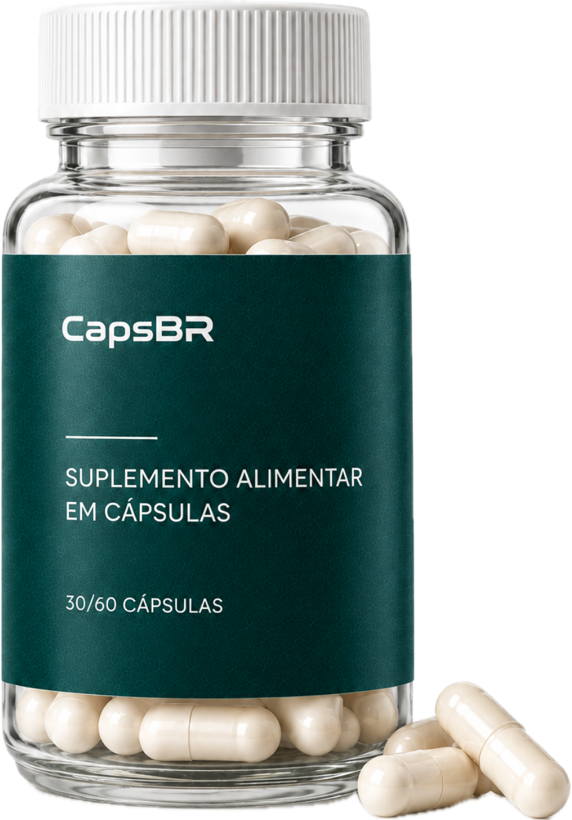
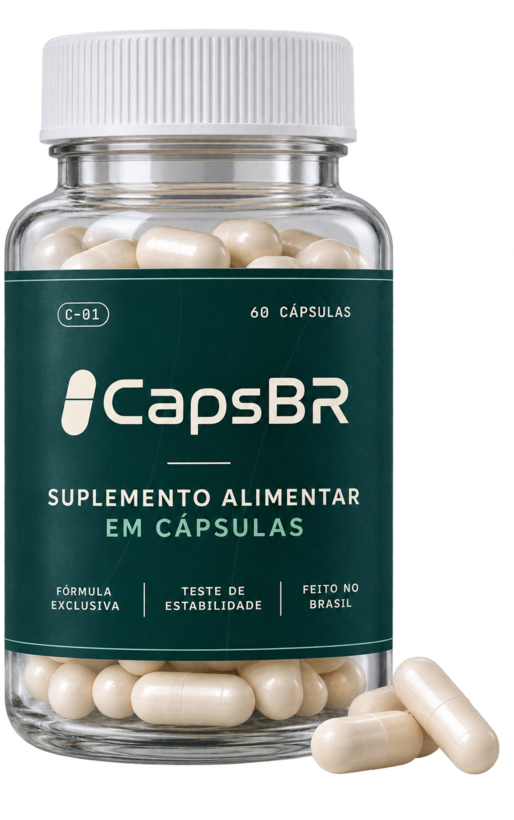
Standardize mockups, remove em-dashes, fix remaining factory claims
- Regenerate capsulas/liquidos-recorte.png from the same approved
  signature photos used for the catalog card mockups; they were
  older designer assets with a different (outdated) label design.
  Goma/solúvel already matched.
- Remove em-dashes from real site copy: the FAQ answer about
  outsourcing, and the "—" placeholder for unestablished %VD in the
  nutrition table (now empty string, same isNaN() fallback behavior).
- A page-by-page mobile wrap review turned up 4 more spots still
  claiming an in-house factory, missed by earlier fixes since they
  live in catalog.js's templates rather than the pages already
  edited: the hero and catalog-cover tag chips ("Fábrica de marca
  própria"), both pages' footer tagline, and two catalog.js lines
  ("a gente fabrica", "direto com a fábrica", "Fale com a fábrica").

Claude-Session: https://claude.ai/code/session_01LBGgy8mu6UH6r6U7q1ZMpe

diff --git a/assets/js/catalog.js b/assets/js/catalog.js
@@ -89,9 +89,9 @@
       <div class="dk-grid"></div><div class="dk-glow"></div>
       <div class="cover__top"><span class="dk-logo" role="img" aria-label="CapsBR"></span><div class="cover__ed">Catálogo ${today.getFullYear()}<br>Edição ${esc(edition)}</div></div>
       <div class="cover__body">
-        <div class="cover__tags"><span class="tag"><span class="dot"></span>Fábrica de marca própria</span>${PROMO.on && state.precos ? `<span class="tag cover__promo">${esc(PROMO.name)} · até ${PROMO.max}% off até ${PROMO.endDMY.slice(0, 5)}</span>` : ''}</div>
+        <div class="cover__tags"><span class="tag"><span class="dot"></span>Marca própria de suplementos</span>${PROMO.on && state.precos ? `<span class="tag cover__promo">${esc(PROMO.name)} · até ${PROMO.max}% off até ${PROMO.endDMY.slice(0, 5)}</span>` : ''}</div>
         <h1 class="display">${title}</h1>
-        <p class="lead">Fórmulas prontas, validadas e com teste de estabilidade. Você escolhe, a gente fabrica com o rótulo da sua marca e entrega pronto pra vender.</p>
+        <p class="lead">Fórmulas prontas, validadas e com teste de estabilidade. Você escolhe, a gente cuida da produção com o rótulo da sua marca e entrega pronto pra vender.</p>
         ${state.para ? `<div class="cover__for"><span>Preparado para</span><b>${esc(state.para)}</b></div>` : ''}
       </div>
       <div class="cover__art${showCaps && showLiq ? '' : ' is-solo'}" aria-hidden="true">
@@ -115,7 +115,7 @@
         <div class="eyebrow"><span class="num">01</span><span class="line"></span><span class="mono">Sobre a CapsBR</span></div>
         <h2 class="display h2">Sua linha de suplementos, <span class="accent">sem montar uma fábrica.</span></h2>
       </div>
-      <p class="lead">A CapsBR Nutracêuticos fabrica cápsulas e líquidos com a marca de quem quer empreender no mercado de suplementos. Do pó da fórmula ao lote aprovado, cada etapa acontece na nossa linha, com controle de qualidade em todo frasco.</p>
+      <p class="lead">A CapsBR Nutracêuticos coloca no mercado cápsulas e líquidos com a marca de quem quer empreender no mundo dos suplementos. Do pó da fórmula ao lote aprovado, cuidamos de cada etapa da produção, com controle de qualidade em todo frasco.</p>
     </div>
     <div class="sec-label"><span class="mono">Incluso em todo pedido</span></div>
     <div class="inc">
@@ -170,7 +170,7 @@
         <div class="dv__txt">
           <span class="dv__num">${pad(n)}</span>
           <h2 class="display">${g.label}</h2>
-          <p class="lead">${liq ? 'Frasco com conta-gotas de 30 mL, cheio e lacrado na nossa linha. Absorção rápida e dose fácil de ajustar.' : 'Pote de vidro com 30 ou 60 cápsulas, dosadas, encapsuladas e envasadas com controle em cada etapa.'}</p>
+          <p class="lead">${liq ? 'Frasco com conta-gotas de 30 mL, cheio e lacrado com controle em cada etapa. Absorção rápida e dose fácil de ajustar.' : 'Pote de vidro com 30 ou 60 cápsulas, dosadas, encapsuladas e envasadas com controle em cada etapa.'}</p>
           <div class="dv__tags"><span class="tag"><span class="dot"></span>${liq ? 'Conta-gotas 30 mL' : 'Pote de vidro'}</span><span class="tag">${pad(g.items.length)} fórmulas</span></div>
         </div>
         <div class="dv__art${liq ? ' is-liq' : ''}" aria-hidden="true"><div class="dv__disc"></div><img src="${liq ? IMG.liq : IMG.caps}" alt=""></div>
@@ -202,7 +202,7 @@
       </div>` : `
       <div class="pr">
         <div class="pr__h"><span class="mono">Volumes disponíveis</span></div>
-        <div class="pr__ask">Valores sob consulta, direto com a fábrica.</div>
+        <div class="pr__ask">Valores sob consulta, direto com a CapsBR.</div>
         <p>Quanto maior o volume, menor o valor por unidade.</p>
         <div class="pr__vols">${vs.map(v => `<span>${nf(v)} un.</span>`).join('')}</div>
         <p class="pr__inc">Já inclui <b>rótulo personalizado, teste de estabilidade e tabela nutricional</b>.</p>
@@ -309,7 +309,7 @@
         <p class="lead">Escolha as fórmulas, mande os códigos no WhatsApp e receba a cotação com rótulo, ANVISA e prazo, tudo numa conversa.</p>
         <a class="back__btn" href="${link}" target="_blank" rel="noopener">
           <span class="back__ic">${WAIC}</span>
-          <span class="back__t"><small>Fale com a fábrica no WhatsApp</small><b>${phone}</b></span>
+          <span class="back__t"><small>Fale com a CapsBR no WhatsApp</small><b>${phone}</b></span>
           <span class="back__ar">${ARROW}</span>
         </a>
         <div class="back__lines">

diff --git a/assets/js/home.js b/assets/js/home.js
@@ -118,7 +118,7 @@
   const faq = [
     ['Qual é o pedido mínimo?', 'A partir de 300 unidades por fórmula. Quanto maior o volume, menor o valor por unidade. As faixas de 300, 500, 1.000 e 2.000 unidades aparecem na página de cada produto.'],
     ['O preço por unidade já inclui tudo?', 'Já inclui rótulo personalizado, teste de estabilidade e tabela nutricional em todo produto. A taxa de notificação na ANVISA e a impressão do rótulo entram à parte, e isso é confirmado com você na cotação final, sem surpresa.'],
-    ['A CapsBR é uma fábrica?', 'Não. A CapsBR é especialista em terceirização: trabalhamos com uma rede de fábricas parceiras, todas regularizadas e com contrato formal com a gente — só fábricas dentro desse padrão entram no nosso catálogo. Ter vários fornecedores, em vez de depender de uma única fábrica própria, é o que nos permite oferecer uma variedade tão grande de fórmulas. Como operamos em escala com essas fábricas, conseguimos preços bem menores do que você conseguiria negociando direto com elas, e repassamos essa vantagem pro valor final do seu pedido. Na prática, você fala só com a CapsBR: a gente cuida de toda a gestão com as fábricas (escolha, prazo, controle de qualidade) pra você não precisar resolver nada disso sozinho.'],
+    ['A CapsBR é uma fábrica?', 'Não. A CapsBR é especialista em terceirização: trabalhamos com uma rede de fábricas parceiras, todas regularizadas e com contrato formal com a gente. Só fábricas dentro desse padrão entram no nosso catálogo. Ter vários fornecedores, em vez de depender de uma única fábrica própria, é o que nos permite oferecer uma variedade tão grande de fórmulas. Como operamos em escala com essas fábricas, conseguimos preços bem menores do que você conseguiria negociando direto com elas, e repassamos essa vantagem pro valor final do seu pedido. Na prática, você fala só com a CapsBR: a gente cuida de toda a gestão com as fábricas (escolha, prazo, controle de qualidade) pra você não precisar resolver nada disso sozinho.'],
     ['Quanto tempo demora para receber depois de fechar?', 'De 15 a 45 dias após a aprovação e a chegada do rótulo impresso. O prazo varia porque escolhemos o fornecedor mais indicado para cada pedido, e isso é repassado pra você de forma direta na cotação.'],
     ['Posso fechar mais de uma fórmula de uma vez?', 'Pode, e vale a pena: monte seu kit escolhendo 2 ou mais fórmulas e envie tudo numa única mensagem no WhatsApp, pra fechar de uma vez só.'],
     ['Como funciona para fechar o pedido?', 'Você escolhe a fórmula e o volume aqui no site, fala direto com a CapsBR no WhatsApp, recebe a cotação e o contrato, e assim que o rótulo é aprovado, sua marca entra em produção.'],

diff --git a/index.html b/index.html
@@ -5,7 +5,7 @@
 <script>if(matchMedia('(max-width:900px)').matches)document.documentElement.classList.add('is-lite')</script>
 <meta name="viewport" content="width=device-width, initial-scale=1, maximum-scale=1, viewport-fit=cover">
 <title>CapsBR | Sua marca própria de suplementos</title>
-<meta name="description" content="Fábrica de suplementos com marca própria: cápsulas e líquidos com rótulo personalizado, teste de estabilidade e notificação ANVISA.">
+<meta name="description" content="Marca própria de suplementos, sem montar fábrica: cápsulas e líquidos com rótulo personalizado, teste de estabilidade e notificação ANVISA.">
 <link rel="icon" href="assets/img/capsbr-logo-header.svg">
 <link rel="preconnect" href="https://fonts.googleapis.com">
 <link rel="preconnect" href="https://fonts.gstatic.com" crossorigin>
@@ -75,7 +75,7 @@ src="https://www.facebook.com/tr?id=1024961890342249&ev=PageView&noscript=1" alt
   </div>
   <div class="wrap hero__in">
     <div>
-      <div class="hero__tags hero-anim"><span class="tag"><span class="dot"></span>Fábrica de marca própria</span><a href="#formulas" class="tag tag--promo" data-promo>Black Friday · até 37% off →</a></div>
+      <div class="hero__tags hero-anim"><span class="tag"><span class="dot"></span>Marca própria de suplementos</span><a href="#formulas" class="tag tag--promo" data-promo>Black Friday · até 37% off →</a></div>
       <h1 class="display h1 hero-title">Sua marca de <span class="accent">suplementos,</span> pronta pra vender.</h1>
       <p class="lead hero-anim">Fórmulas CapsBR com rótulo personalizado e Teste de Estabilidade em todo produto. Você escolhe a fórmula, a gente cuida da produção e sua marca entra no mercado.</p>
       <div class="hero__ctas hero-anim">
@@ -362,7 +362,7 @@ src="https://www.facebook.com/tr?id=1024961890342249&ev=PageView&noscript=1" alt
     <div class="footer__top">
       <div class="footer__brand">
         <a href="#" class="nav__logo" aria-label="CapsBR"><img src="assets/img/capsbr-logo-branca-header.png" alt="CapsBR"></a>
-        <p>Fábrica de suplementos com marca própria. Cápsulas e líquidos com rótulo personalizado, do pedido à entrega.</p>
+        <p>Sua linha própria de suplementos, sem montar fábrica. Cápsulas e líquidos com rótulo personalizado, do pedido à entrega.</p>
         <a class="btn btn--primary js-wa" href="#" target="_blank" rel="noopener">Falar no WhatsApp <span class="arrow"><svg viewBox="0 0 14 14" fill="none"><path d="M1 13L13 1M13 1H4M13 1v9" stroke="currentColor" stroke-width="1.8"/></svg></span></a>
       </div>
       <div class="footer__grid">

diff --git a/produto.html b/produto.html
@@ -212,7 +212,7 @@ src="https://www.facebook.com/tr?id=1024961890342249&ev=PageView&noscript=1" alt
     <div class="footer__top">
       <div class="footer__brand">
         <a href="index.html" class="nav__logo" aria-label="CapsBR"><img src="assets/img/capsbr-logo-branca-header.png" alt="CapsBR"></a>
-        <p>Fábrica de suplementos com marca própria. Cápsulas e líquidos com rótulo personalizado, do pedido à entrega.</p>
+        <p>Sua linha própria de suplementos, sem montar fábrica. Cápsulas e líquidos com rótulo personalizado, do pedido à entrega.</p>
         <a class="btn btn--primary js-wa" href="#" target="_blank" rel="noopener">Falar no WhatsApp <span class="arrow"><svg viewBox="0 0 14 14" fill="none"><path d="M1 13L13 1M13 1H4M13 1v9" stroke="currentColor" stroke-width="1.8"/></svg></span></a>
       </div>
       <div class="footer__grid">

diff --git a/assets/js/product.js b/assets/js/product.js
@@ -29,11 +29,11 @@
 
   // foto recortada do produto, sem fundo (PNG com transparência)
   const CUT_BY_TIPO = {
-    'Líquidos': { src: 'liquidos-recorte.png', w: 279, h: 820 },
+    'Líquidos': { src: 'liquidos-recorte.png', w: 520, h: 820 },
     'Gomas e Pastilhas': { src: 'gomas-recorte.png', w: 502, h: 820 },
     'Solúveis': { src: 'soluveis-recorte.png', w: 544, h: 820 },
   };
-  const cut = CUT_BY_TIPO[p.tipo] || { src: 'capsulas-recorte.png', w: 572, h: 820 };
+  const cut = CUT_BY_TIPO[p.tipo] || { src: 'capsulas-recorte.png', w: 514, h: 820 };
   const photo = $('.js-photo'); if (photo) photo.innerHTML = `<img src="assets/img/${cut.src}" alt="${p.titulo}, ${isLiq ? 'frasco conta-gotas' : 'pote'} com a sua marca" width="${cut.w}" height="${cut.h}" fetchpriority="high" decoding="async">`;
   if (isLiq && photo) photo.classList.add('is-liq');
 

diff --git a/assets/js/data.js b/assets/js/data.js
@@ -1662,12 +1662,12 @@ window.PRODUCTS = [
    [
     "Ácido clorogênico (mg)",
     "60",
-    "—"
+    ""
    ],
    [
     "Antocianinas (mg)",
     "2",
-    "—"
+    ""
    ]
   ],
   "naoContem": "Não contém quantidades significativas de Valor energético, Carboidratos, Açúcares totais, Açúcares adicionados, Proteínas, Gorduras totais, Gorduras saturadas, Gorduras trans, Fibras alimentares e Sódio.",
